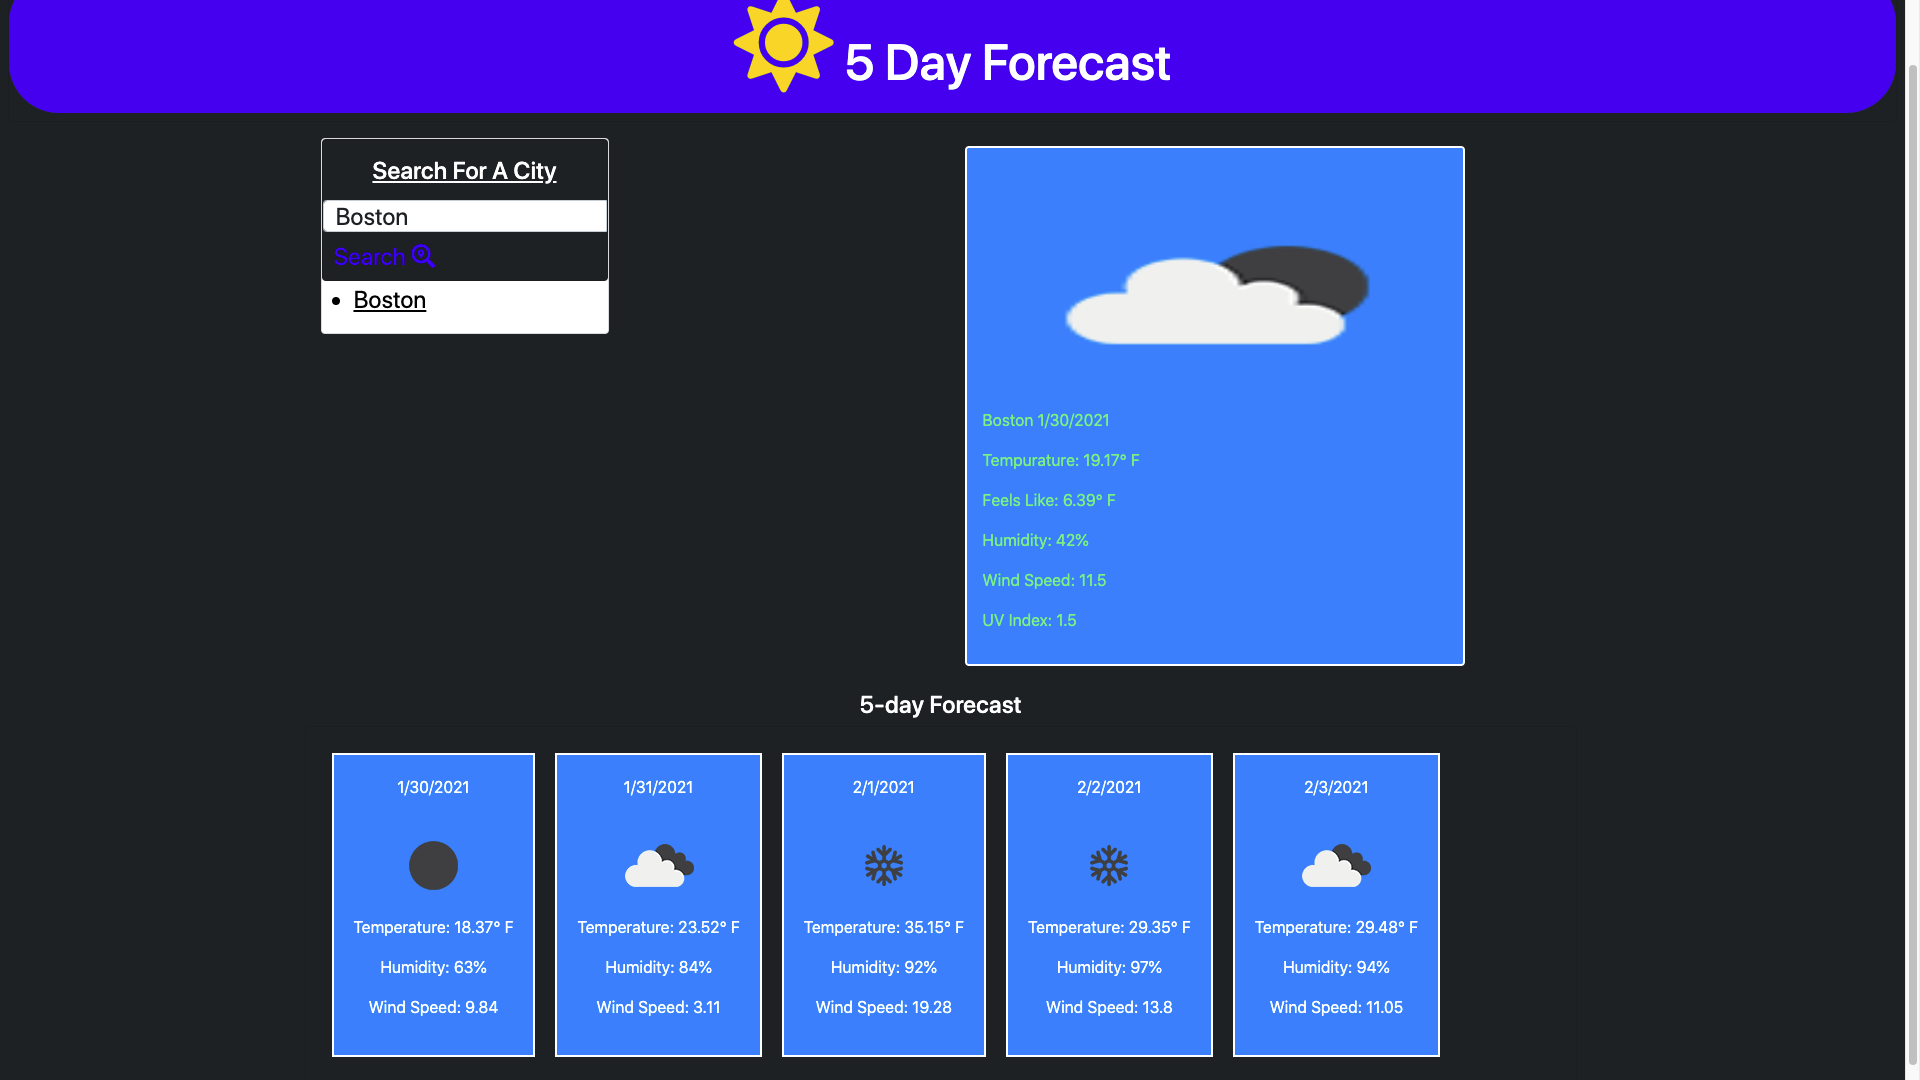
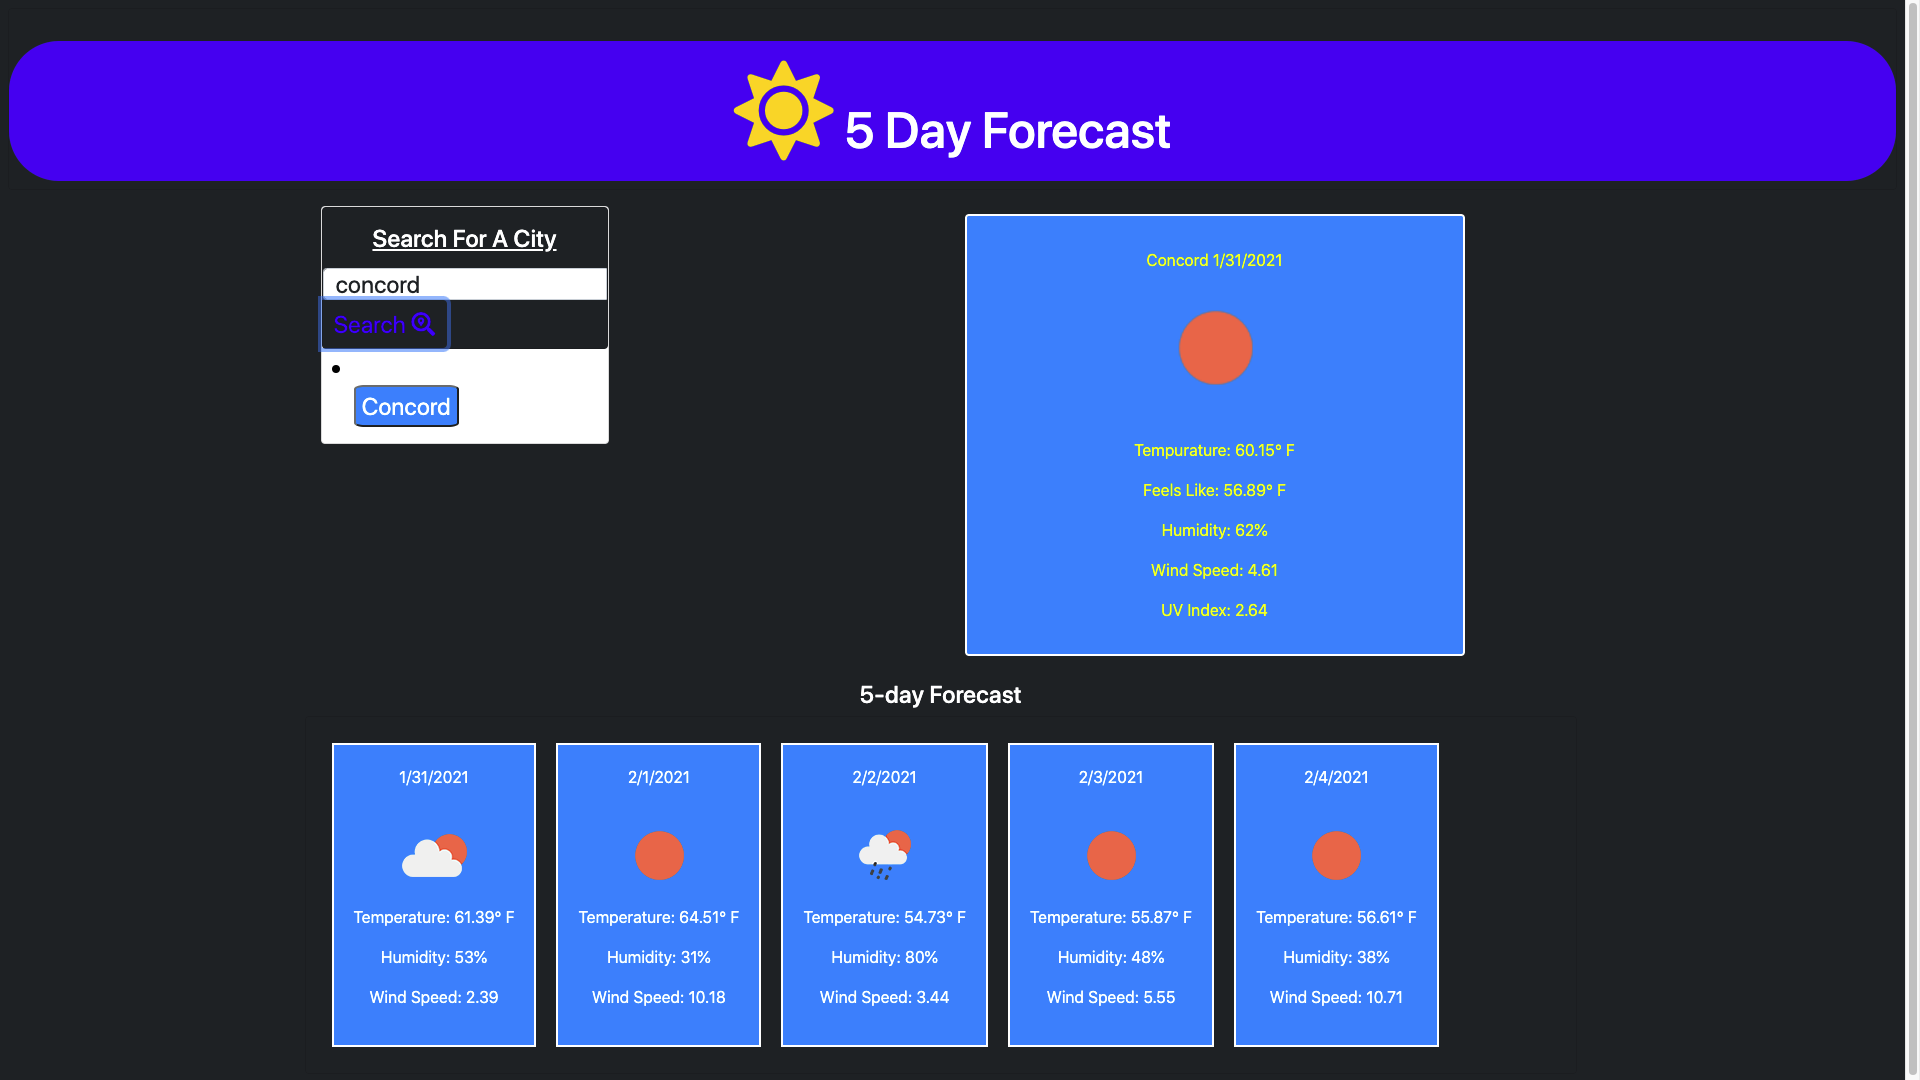
update styles || add button for pre-search

diff --git a/forecast.JS b/forecast.JS
@@ -1,7 +1,11 @@
-$(document).ready(function () {
-    let searchBtn = $("#searchBtn");
+let searchBtn = $("#searchBtn");
+let cityBtn = $("cityBtn");
 
-// Search Button that starts weather GET
+let cityArray = []
+
+
+$(document).ready(function () {
+    // Search Button that starts weather GET
 
     searchBtn.click(function () {
 
@@ -25,17 +29,15 @@ $(document).ready(function () {
                 method: "GET"
             }).then(function (response) {
 
-                // local storage attempt
-                // let searchInput = $("#search-bar").val();
-                localStorage.setItem("key", (response.name));
+                // local storage attempt -- need to rework
 
-
+                localStorage.setItem(cityArray, response.name);
                 let prevSearch = localStorage.getItem(response.name);
-                
+
                 // Appends searches to list 
+
                 let cityName = $(".list-previous-city").addClass("previousCity");
-                cityName.append("<li>" + response.name + "</li>");
-        
+                cityName.append("<li>", `<button class='cityBtn'>${response.name}</button>`, "</li>");
 
 
                 // Starts Append to Card
@@ -45,9 +47,9 @@ $(document).ready(function () {
                 currentCard.append(currentCity);
 
                 // Date Introduction 
-                currentCity.append(`<img src="https://openweathermap.org/img/wn/${response.weather[0].icon}@2x.png">`);
                 let dateTime = new Date(response.dt * 1000);
                 currentCity.append(response.name + " " + dateTime.toLocaleDateString("en-US"));
+                currentCity.append(`<img class="weatherImg text-center" src="https://openweathermap.org/img/wn/${response.weather[0].icon}@2x.png">`);
                 // Weather Conditions GET
                 let currentTemp = currentCity.append("<p>");
                 currentCity.append(currentTemp);

diff --git a/index.html b/index.html
@@ -22,7 +22,7 @@
 </head>
 
 <body>
-    <!-- Header with Font--Awesome Sun -->
+    <!-- Header with Font-Awesome Sun -->
 
     <div class="container-fluid bg-dark p-2">
         <div class="card bg-dark">
@@ -39,10 +39,10 @@
                 <div class="col">
                     <div class="card-body text-center text-white">
 
-                        <div class="card" style="width: 18rem;">
+                        <div class="card" style="width: 18rem; background-color:#212529;">
                             <div class="card bg-dark">
                                 <h2 class="search-header my-3">Search For A City</h2>
-                                <div class="input-group">
+                                <div class="input-group" style="border: 2px solid white;">
                                     <input id="search-bar" type="text" class="form-control" placeholder="Enter City...">
                                     <button class="btn btn-primary" type="button" id="searchBtn">    Search
                                         <span class="fas fa-search-location"></span></button>

diff --git a/forecast.css b/forecast.css
@@ -15,6 +15,7 @@ body{
 
 /* Current Forecast H/W */
 .currentCard {
+    text-align: center;
     max-width: 500px;
     max-height: 520px;
     background-color: #1E90FF !important;
@@ -27,6 +28,7 @@ body{
     font: bold;
     font-size: x-large;
     text-decoration: underline;
+    border: 2px solid white;
 }
 
 /* Class for when 5day renders */
@@ -37,6 +39,15 @@ body{
     float: left;
     margin: 10px;
     border: 2px solid white;
+}
+
+/* Icon in currentDay weather */
+.weatherImg{
+    width: 150px;
+    height: 150px;
+    margin-right: auto;
+    margin-left: auto;
+
 }
 
 /* UV-index colors */
@@ -55,14 +66,22 @@ body{
     color: red !important;
 
 }
-
+/* Previous City Btn */
+.cityBtn{
+    color: white;
+    background: #1E90FF;
+   border-radius: 10%;
+   
+ 
+}
 
 /* Formatting for Previous search h3 */
  .list-previous-city{
      text-decoration: underline;
      text-align: left;
      font-size: x-large;
-     color: black;
+     border: 2px solid white;
+     
  }
 
 /* Search Bar */
